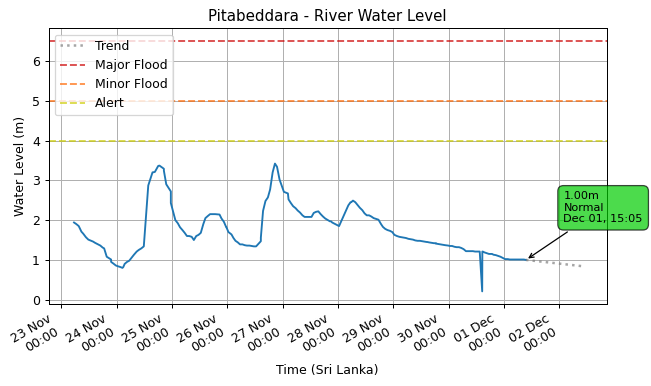
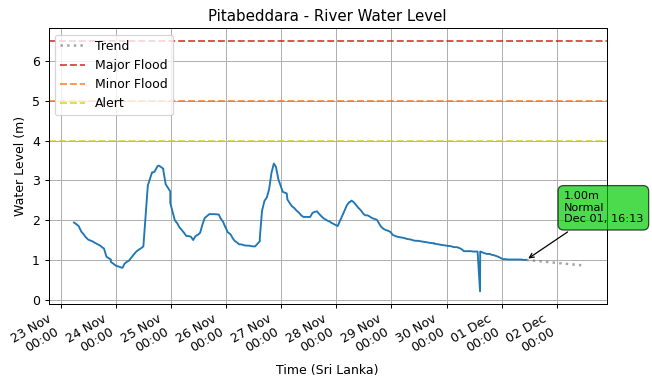
🤖 [update_latest.yml] 2025-12-01-1051

diff --git a/README.md b/README.md
@@ -1,11 +1,11 @@
 # lk_irrigation 🇱🇰
 
 ![Status: Live](https://img.shields.io/badge/status-live-brightgreen)
-![LastUpdated](https://img.shields.io/badge/last_updated-2025--12--01_16:09:31-green)
+![LastUpdated](https://img.shields.io/badge/last_updated-2025--12--01_16:14:06-green)
 
 Realtime Data about *River Water Levels* in Sri Lanka, from the [Irrigation Deptartment](https://www.irrigation.gov.lk)'s [Hydrology and Disaster Management](https://www.irrigation.gov.lk/web/index.php?option=com_content&view=article&id=27&Itemid=128&lang=en) Division.
 
-- [Complete Dataset](data/rwlds) with **6,757 measurements** from **39** stations.
+- [Complete Dataset](data/rwlds) with **6,760 measurements** from **39** stations.
 - [Scrape and load logic](src/lk_irrigation/rwld/RiverWaterLevelDataLoadMixin.py)
 - [Original Data source](https://www.arcgis.com/apps/dashboards/2cffe83c9ff5497d97375498bdf3ff38)
 
@@ -15,10 +15,13 @@ Realtime Data about *River Water Levels* in Sri Lanka, from the [Irrigation Dept
 
 ## Latest measurements
 
-*There were **32** measurements in the last **1 hour**.*
+*There were **33** measurements in the last **1 hour**.*
 
 | Measured At | Station (River Basin) | Level (m) | Alert Level | Rate-of-Rise (m/hr) | Rising Alert |
 | --- | --- | ---: | --- | ---: | --- |
+| 2025-12-01 16:14:06 | Panadugama (Nilwala Ganga) | 3.31 | 🟢 Normal | 0.000 |  |
+| 2025-12-01 16:13:07 | Pitabeddara (Nilwala Ganga) | 1.00 | 🟢 Normal | 0.000 |  |
+| 2025-12-01 16:10:22 | Thalgahagoda (Nilwala Ganga) | 0.83 | 🟢 Normal | -0.028 |  |
 | 2025-12-01 16:09:31 | Magura (Kalu Ganga) | 2.19 | 🟢 Normal | 0.029 | 🔺 Rising |
 | 2025-12-01 16:08:20 | Urawa (Nilwala Ganga) | 0.69 | 🟢 Normal | -0.010 |  |
 | 2025-12-01 16:06:16 | Rathnapura (Kalu Ganga) | 5.15 | 🟢 Normal | -0.079 |  |
@@ -49,8 +52,6 @@ Realtime Data about *River Water Levels* in Sri Lanka, from the [Irrigation Dept
 | 2025-12-01 16:00:51 | Siyambalanduwa (Heda Oya) | 1.17 | 🟢 Normal | -0.010 |  |
 | 2025-12-01 16:00:14 | Thanthirimale (Malwathu Oya) | 9.37 | 🔴 Major Flood | -0.062 |  |
 | 2025-12-01 16:00:09 | Nakkala (Kumbukkan Oya) | 1.62 | 🟢 Normal | -0.010 |  |
-| 2025-12-01 15:17:03 | Galgamuwa (Mee Oya) | 3.76 | 🟢 Normal | -0.116 |  |
-| 2025-12-01 15:11:50 | Ellagawa (Kalu Ganga) | 10.94 | 🟠 Minor Flood | -0.069 |  |
 
 ## Latest by Station
 
@@ -72,9 +73,10 @@ Realtime Data about *River Water Levels* in Sri Lanka, from the [Irrigation Dept
 | 2025-12-01 16:03:42 | Horowpothana (Yan Oya) | 6.66 | 🟡 Alert | -0.087 |  |
 | 2025-12-01 16:09:31 | Magura (Kalu Ganga) | 2.19 | 🟢 Normal | 0.029 | 🔺 Rising |
 | 2025-12-01 16:05:03 | Nawalapitiya (Mahaweli Ganga) | 1.85 | 🟢 Normal | 0.000 |  |
+| 2025-12-01 16:13:07 | Pitabeddara (Nilwala Ganga) | 1.00 | 🟢 Normal | 0.000 |  |
+| 2025-12-01 16:14:06 | Panadugama (Nilwala Ganga) | 3.31 | 🟢 Normal | 0.000 |  |
 | 2025-12-01 16:02:15 | Katharagama (Menik Ganga) | 0.90 | 🟢 Normal | 0.000 |  |
 | 2025-12-01 16:01:27 | Wellawaya (Kirindi Oya) | 1.21 | 🟢 Normal | -0.010 |  |
-| 2025-12-01 15:09:05 | Panadugama (Nilwala Ganga) | 3.31 | 🟢 Normal | -0.010 |  |
 | 2025-12-01 16:02:46 | Yaka Wewa (Ma Oya) | 1.13 | 🟢 Normal | -0.010 |  |
 | 2025-12-01 16:08:20 | Urawa (Nilwala Ganga) | 0.69 | 🟢 Normal | -0.010 |  |
 | 2025-12-01 16:03:21 | Norwood (Kelani Ganga) | 1.22 | 🟢 Normal | -0.010 |  |
@@ -83,12 +85,11 @@ Realtime Data about *River Water Levels* in Sri Lanka, from the [Irrigation Dept
 | 2025-12-01 16:03:35 | Padiyathalawa (Maduru Oya) | 1.02 | 🟢 Normal | -0.010 |  |
 | 2025-12-01 16:00:51 | Siyambalanduwa (Heda Oya) | 1.17 | 🟢 Normal | -0.010 |  |
 | 2025-12-01 16:00:09 | Nakkala (Kumbukkan Oya) | 1.62 | 🟢 Normal | -0.010 |  |
-| 2025-12-01 15:06:26 | Thalgahagoda (Nilwala Ganga) | 0.86 | 🟢 Normal | -0.010 |  |
-| 2025-12-01 15:05:20 | Pitabeddara (Nilwala Ganga) | 1.00 | 🟢 Normal | -0.011 |  |
 | 2025-12-01 15:10:06 | Badalgama (Maha Oya) | 3.98 | 🟢 Normal | -0.019 |  |
 | 2025-12-01 16:01:08 | Thanamalwila (Kirindi Oya) | 1.46 | 🟢 Normal | -0.020 |  |
 | 2025-12-01 16:00:52 | Baddegama (Gin Ganga) | 1.96 | 🟢 Normal | -0.021 |  |
 | 2025-12-01 16:02:49 | Kithulgala (Kelani Ganga) | 2.20 | 🟢 Normal | -0.025 |  |
+| 2025-12-01 16:10:22 | Thalgahagoda (Nilwala Ganga) | 0.83 | 🟢 Normal | -0.028 |  |
 | 2025-12-01 16:01:47 | Thawalama (Gin Ganga) | 1.90 | 🟢 Normal | -0.031 |  |
 | 2025-12-01 16:06:13 | Giriulla (Maha Oya) | 2.96 | 🟢 Normal | -0.040 |  |
 | 2025-12-01 16:01:38 | Moraketiya (Walawe Ganga) | 1.81 | 🟢 Normal | -0.049 |  |
@@ -156,6 +157,14 @@ Realtime Data about *River Water Levels* in Sri Lanka, from the [Irrigation Dept
 
 ![Nawalapitiya](images/stations/nawalapitiya.png)
 
+### Pitabeddara (Nilwala Ganga)
+
+![Pitabeddara](images/stations/pitabeddara.png)
+
+### Panadugama (Nilwala Ganga)
+
+![Panadugama](images/stations/panadugama.png)
+
 ### Katharagama (Menik Ganga)
 
 ![Katharagama](images/stations/katharagama.png)
@@ -163,10 +172,6 @@ Realtime Data about *River Water Levels* in Sri Lanka, from the [Irrigation Dept
 ### Wellawaya (Kirindi Oya)
 
 ![Wellawaya](images/stations/wellawaya.png)
-
-### Panadugama (Nilwala Ganga)
-
-![Panadugama](images/stations/panadugama.png)
 
 ### Yaka Wewa (Ma Oya)
 
@@ -200,14 +205,6 @@ Realtime Data about *River Water Levels* in Sri Lanka, from the [Irrigation Dept
 
 ![Nakkala](images/stations/nakkala.png)
 
-### Thalgahagoda (Nilwala Ganga)
-
-![Thalgahagoda](images/stations/thalgahagoda.png)
-
-### Pitabeddara (Nilwala Ganga)
-
-![Pitabeddara](images/stations/pitabeddara.png)
-
 ### Badalgama (Maha Oya)
 
 ![Badalgama](images/stations/badalgama.png)
@@ -223,6 +220,10 @@ Realtime Data about *River Water Levels* in Sri Lanka, from the [Irrigation Dept
 ### Kithulgala (Kelani Ganga)
 
 ![Kithulgala](images/stations/kithulgala.png)
+
+### Thalgahagoda (Nilwala Ganga)
+
+![Thalgahagoda](images/stations/thalgahagoda.png)
 
 ### Thawalama (Gin Ganga)
 
